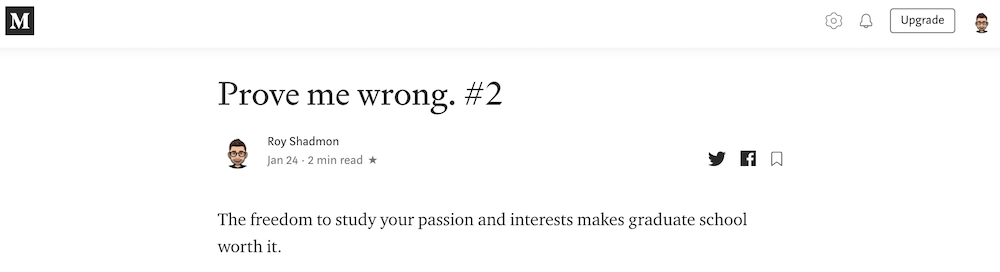
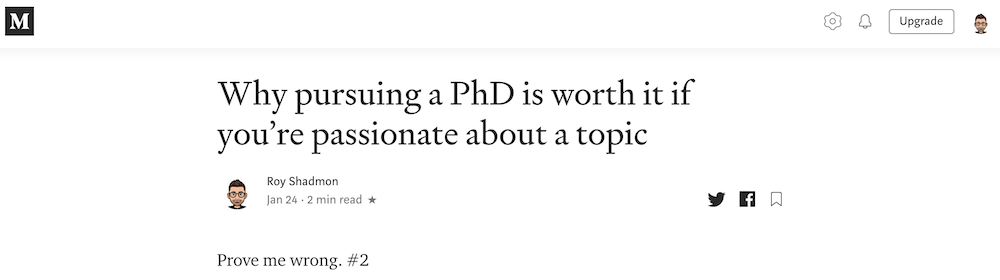
updating blog post title

diff --git a/_posts/2020-01-24-blog-post-5.md b/_posts/2020-01-24-blog-post-5.md
@@ -1,5 +1,5 @@
 ---
-title: 'Prove me wrong. #2'
+title: 'Why pursuing a PhD is worth it if you're passionate about a topic'
 date: 2020-01-24
 permalink: /posts/2020/01/24/blog-post-5/
 tags:

diff --git a/_posts/2020-01-13-blog-post-3.md b/_posts/2020-01-13-blog-post-3.md
@@ -1,5 +1,5 @@
 ---
-title: 'Prove me wrong. #1'
+title: 'An introduction of my prove me wrong blog series'
 date: 2020-01-13
 permalink: /posts/2020/01/13/blog-post-3/
 tags:
